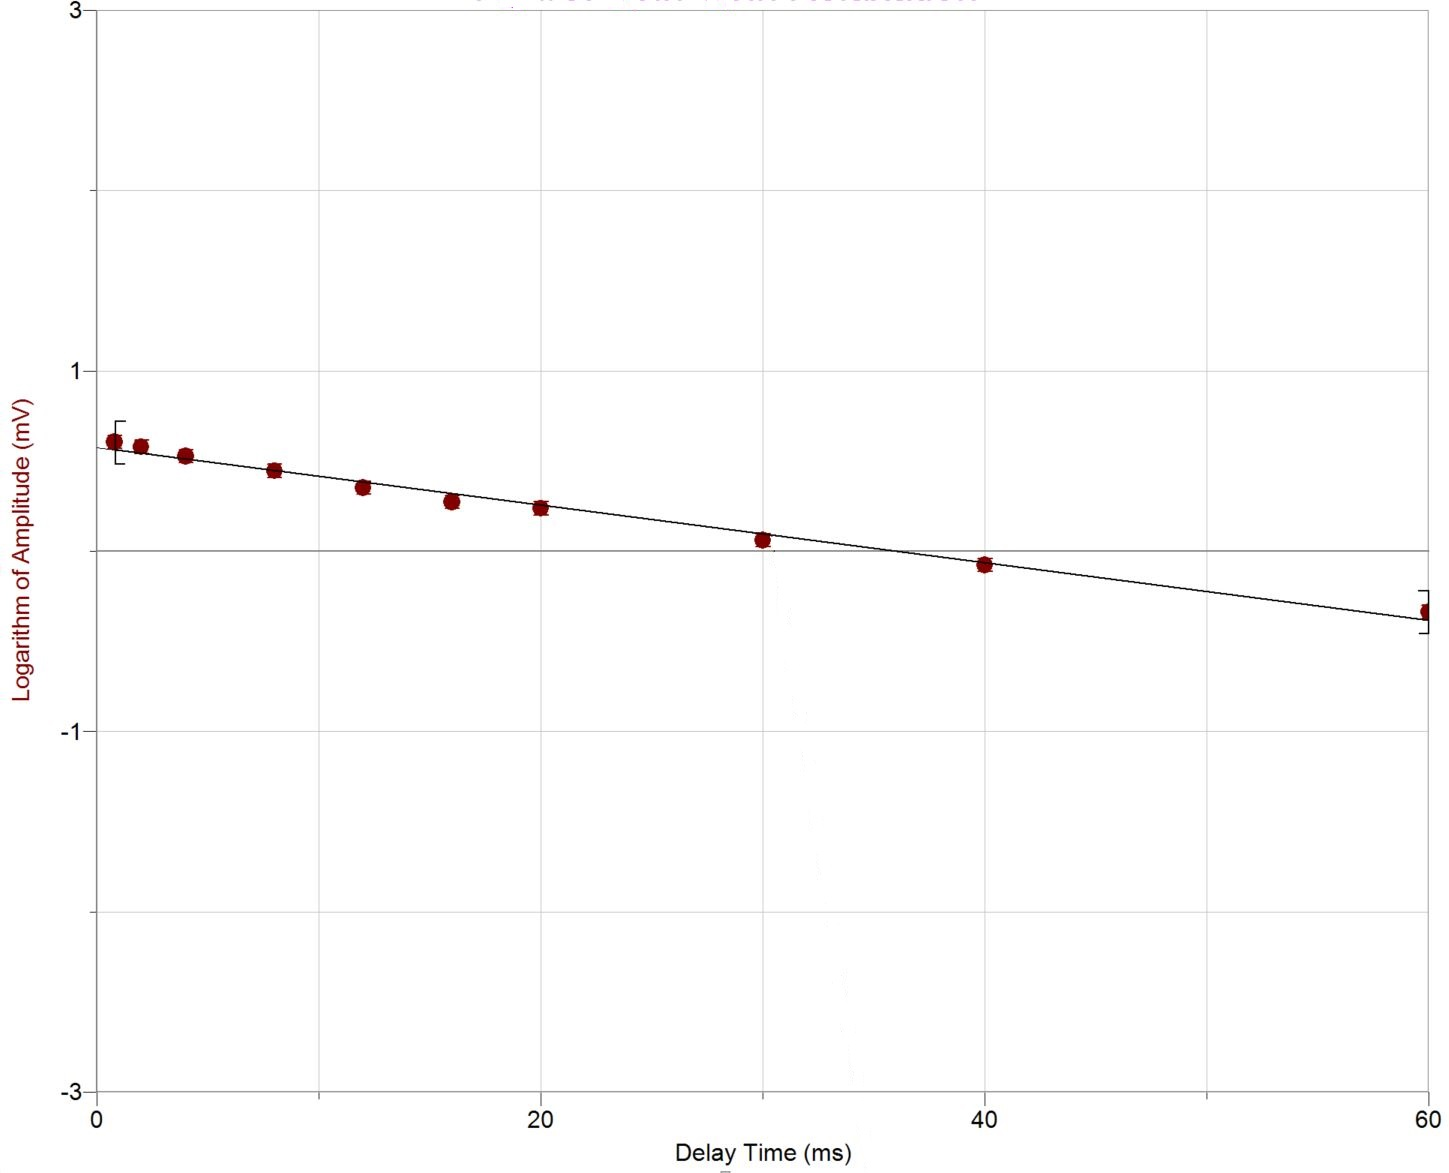
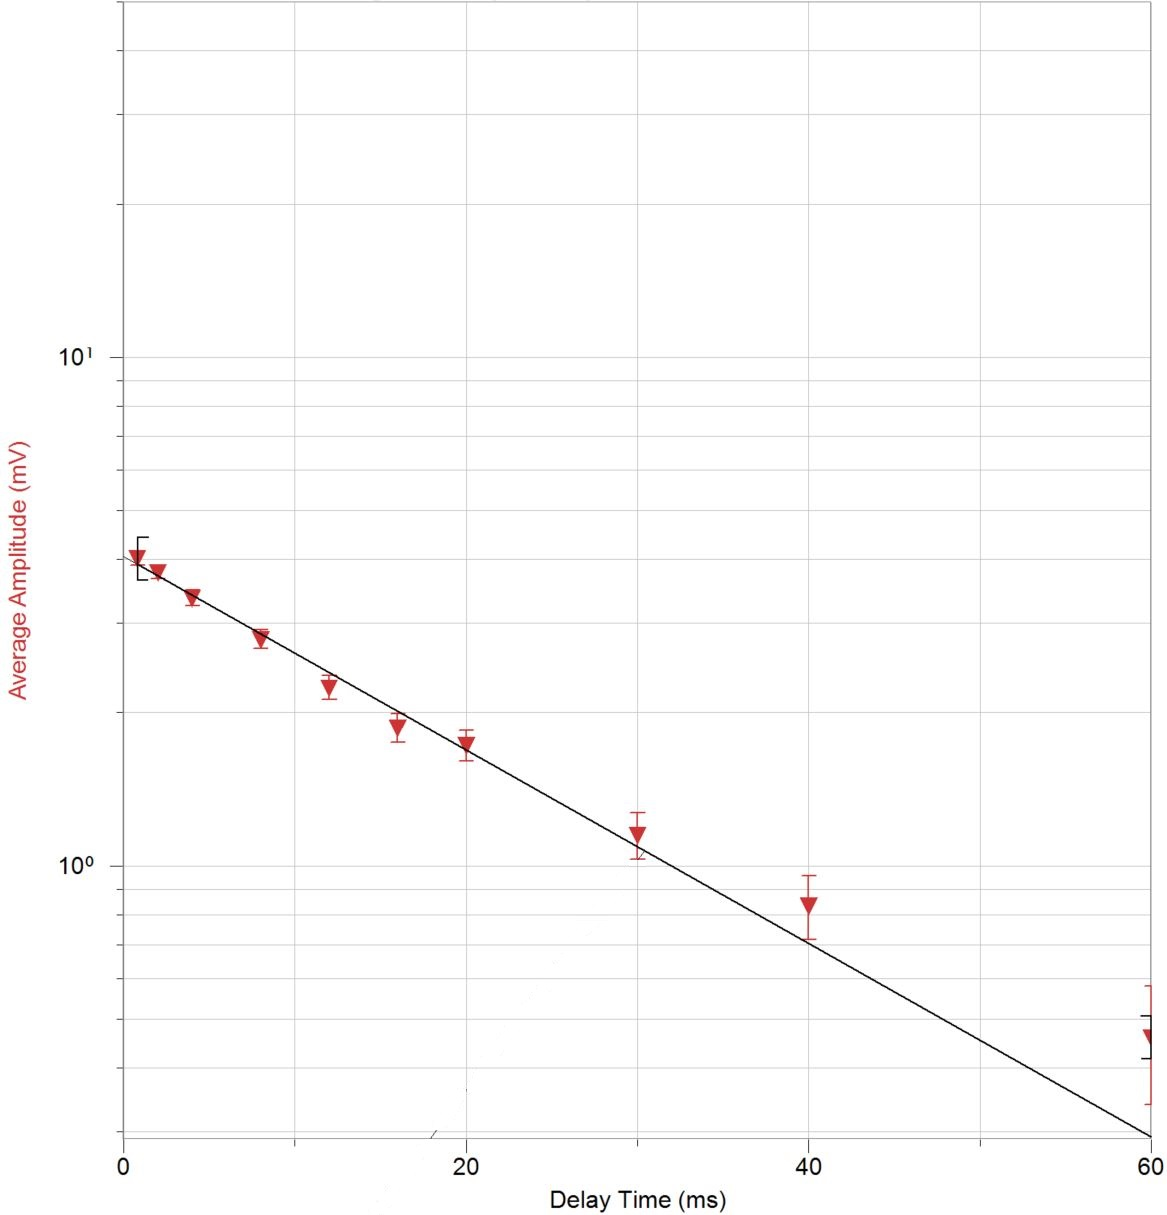
Stuff changed

diff --git a/reportFour.tex b/reportFour.tex
@@ -82,7 +82,8 @@
 
   \vspace{10px}
 
-  This lab report represents the experimental procedure we did to learn about the \emph{Pulsed NMR} \textcite{One}
+  This lab report represents the experimental procedure we did to learn about the \emph{Pulsed Nuclear 
+  Magnetic Resonance (Pulsed NMR)}. The Nuclei is studied in the presence of a magnetic field.
 
   \vspace{20px}
 
@@ -91,7 +92,9 @@
 
   \vspace{10px}
 
-  TODO 
+  Nuclear magnetic resonance (NMR) was worked on in 1945 by 2 physicists, Edward M. Purcell and Felix Bloch. They were given
+  the 1952 Noblem Prize in physics for their work. \textcite{One} Basically NMR is about the spins of protons when a magnetic field 
+  is applied and how the magnetic fields can line up protons.
 
   \vspace{20px}
 
@@ -100,7 +103,9 @@
 
   \vspace{10px}
 
-  TODO 
+  The discovery of NMR goes back to the 1930s when Isidor Isaac Rabi and his team were measuring the the magnetic properties of 
+  nuclei like hydrogen. They observed how an oscillating magnetic field is able to effect principal magnetic orientation 
+  of nuclei.\textcite{Two}
 
   \vspace{20px}
 
@@ -109,16 +114,21 @@
 
   \vspace{10px}
 
-  TODO 
-
-  \vspace{20px}
+  The precession rate (resonance frequency) of protons depends linearly on the magnetic field and can be calculated using the following equation
+  $$
+    f_0(MHz)=4.258 ~ B_0
+  $$
+  In order to calculate the spin-spin relaxation time, we could use the below equation.
+  $$
+    M=M_0 ~ exp \left(-\dfrac{t}{T}\right)
+  $$
 
 
   \textbf{IV. Experimental Procedure}
 
   \vspace{10px}
 
-  We followed the given steps in the lab. TODO...
+  For this experimental, we followed the steps provived in the lab instruction. \textcite{Three}
   
   \vspace{20px}
 
@@ -138,29 +148,22 @@
   \vspace{10px}
 
   In this plot, the amplitudes is represented as a function of time. We adjust the oscilloscope to see 
-  the full FID on it clearly and recorded the amplitudes as a function of time for 12 values using the cursor on the 
-  screen. I used a \textbf{Linear Fit} to the logarithm of amplitudes. My experimental value of $T_2^*$, and its uncertainty 
-  is $0.008663 \pm 0.0004553$ which is a smaller than $0.1 ~ ms$ as it was mentioned on the lab instructions. Also, I could use a 
-  \textbf{Curve Fit} to the amplitudes to find a experimentally value for $T_2^*$.
-
-  \vspace{10px}
-
+  the full FID on it clearly and recorded the amplitudes as a function of time for 9 values using the cursor on the 
+  screen. My experimental value of $T_2^*$, and its uncertainty is $63.21 \pm 4.254 ~ \mu s$ which is a smaller than $0.1 ~ ms$ as 
+  it was mentioned on the lab instructions. Also, I could use a \textbf{Curve Fit} to the amplitudes to find a experimentally value for $T_2^*$.
   The magnetic field can be found with the help of $f_0=4.258 B_0$. We set the frequency to $15.18805 ~ MHz$, 
-  therefore $B_0=3.5669 ~ KG$.  
-
-  1) The reason this FID happens is that
-
-  2) Why is it only an apparent spin-spin relaxation time?
-
-  3) The physical mechanism of how the pulse sequence rotates the spins to yield the FID (Free Induction Decay)
+  therefore $B_0=3.5669 ~ KG$. Essentially, an electromagnetic signal lines up the spin of protons with the magnetic field in the XY plane.
+  When the component is in the XY plane, then the precessing magnetisation will induce 
+  a corresponding voltage which oscillates and converges at the end. the maximum amplitude happens when at $90^{\circ}$.
+  It's only an apparent relaxation time since the direction that it is coming is from the differences in precession frequency, and not 
+  from the changes in the precession frequency due to changes in the local magnetic field.
 
   \begin{center}
     \begin{tabular}{ |c| } 
      \hline
-     Log A = mx+b  \\ 
-     m (Slope): -0.008663 +/- 0.0004553  \\ 
-     b (Y-Intercept): 3.851 +/- 0.09414  \\ 
-     Correlation: -0.9918 and RMSE: 0.08853 \\
+     $M=M_0 ~ exp \left(-\dfrac{t}{T_2^*}\right)$  \\ 
+     $M_0=4202 \pm 378.0 ~ mV$ \\ 
+     $T_2^*=63.21 \pm 4.254 ~ \mu s$ \\
      \hline
     \end{tabular}
   \end{center}
@@ -185,8 +188,9 @@
     \begin{tabular}{ |c| } 
      \hline
      Avg A = $A(t-a)^2+B$  \\ 
-     A: $25.65 +/- 0.6769$ and a: $18.88 +/- 0.01401$  \\ 
-     B: $19.27 +/- 1.270$  \\ 
+     A: $25.65 +/- 0.6769 ~ mV/ms^2$ \\
+     a: $18.88 +/- 0.01401 ms$ \\ 
+     B: $19.27 +/- 1.270 ~ mV$  \\ 
      Correlation: $0.9927$ and RMSE: 4.131 \\
      \hline
     \end{tabular}
@@ -213,10 +217,9 @@
   \begin{center}
     \begin{tabular}{ |c| } 
      \hline
-     Avg A = $mx+b$  \\ 
-     m (Slope): -0.01598 +/- 0.0006314  \\ 
-     b (Y-Intercept): 0.5741 +/- 0.01669  \\ 
-     Correlation: $-0.9938$ and RMSE: 0.03609 \\
+     $M=M_0 ~ exp \left(-\dfrac{t}{T_2^*}\right)$  \\ 
+     $M_0=4.054 \pm 0.08151 ~ mV$ \\ 
+     $T_2^*=22.82 \pm 1.081 ~  ms$ \\
      \hline
     \end{tabular}
   \end{center}
@@ -228,7 +231,7 @@
 
   \vspace{10px}
 
-  In this experiment...
+  By following the lab report document for this experiment, we were able to find the relaxation time values. 
   
   \vspace{20px}
 
@@ -237,7 +240,12 @@
 
   \vspace{10px}
 
-  This is conclusions....
+  In this experiment, Pulsed Nuclear Magnetic Resonance, we were able to calculate spin-latticeand spin-spin relaxation times. The spins start
+  to precess about the Z axis ($\hat{k}$). Right after the spins are in the XY plane, and the precessing start to happen, part of the spins move 
+  slower in comparesion to other spins which causes some differences between them. 
+  After the Initial $90^{\circ}$ pulse, the protons spins are aligned in XY plane. They start to spread out and then once we hit them with $180^{\circ}$ 
+  pulse then the spins are pointed in the opposite directions and instead of spreading out they get togother. 
+
   
   \vspace{20px}
 
